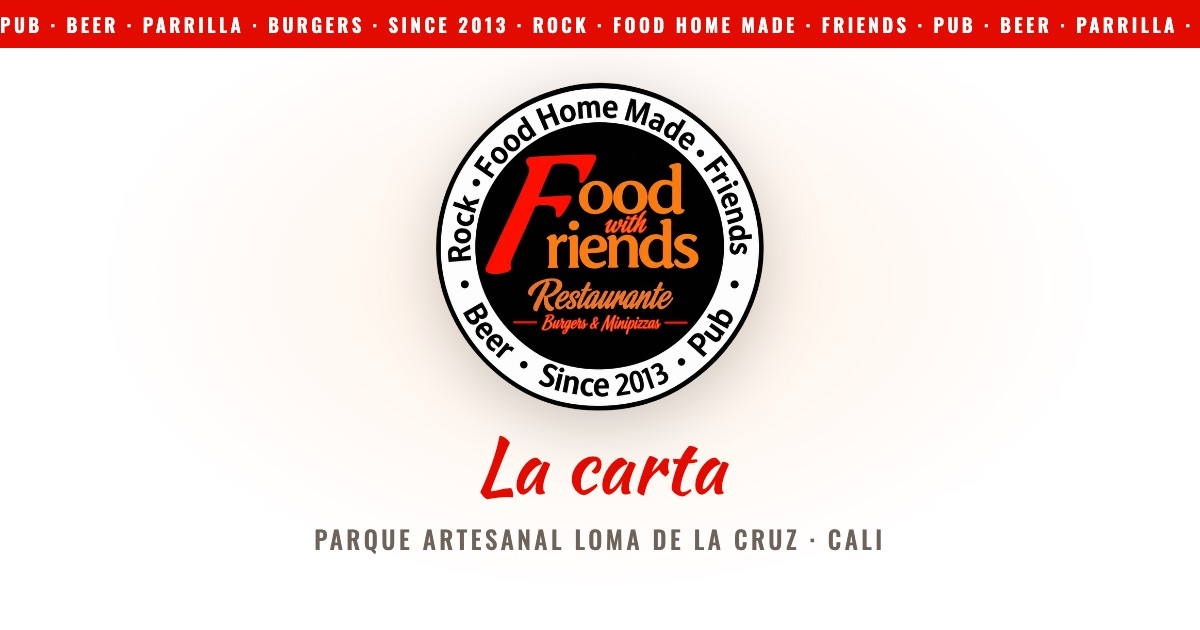
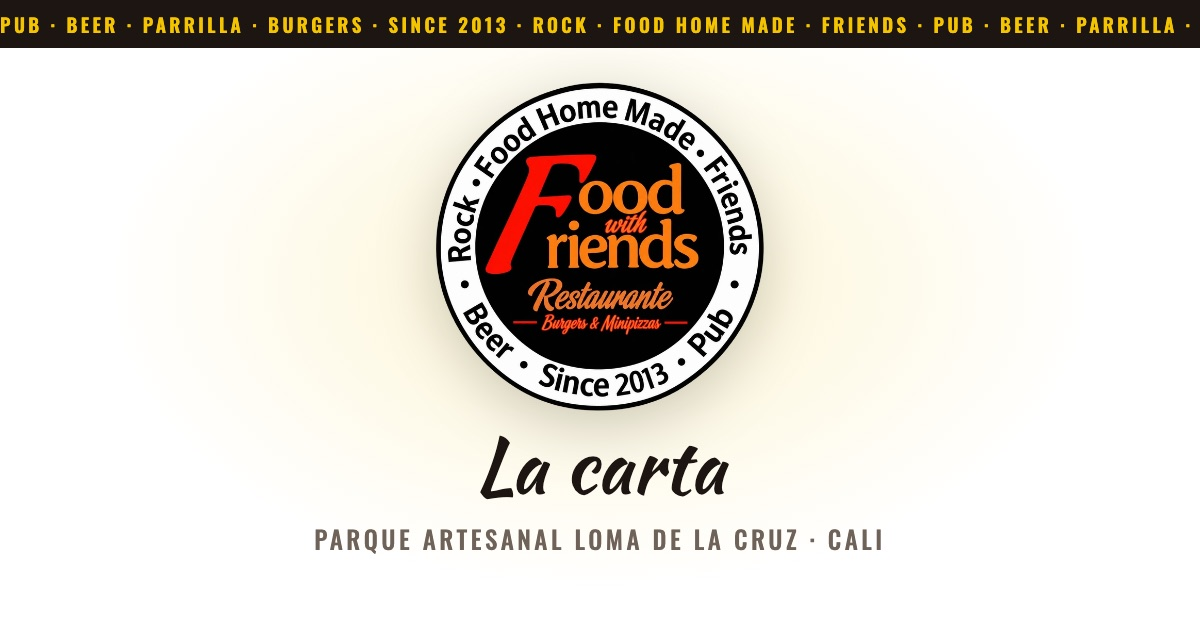
Carta en amarillo y negro, sin rojo (opción A que escogió Willy)
Cinta negra con letra amarilla, títulos negros con raya amarilla gruesa debajo, precios en
negro y la sección activa en amarillo. La imagen para compartir y la página de error, igual.

Changed region(s): [[0.0, 0.0, 1.0, 0.0905], [0.4008, 0.6937, 0.6167, 0.8143]]

diff --git a/index.html b/index.html
@@ -17,7 +17,7 @@
 <meta property="og:image:alt" content="Logo de Food and Friends y La carta">
 <meta property="og:locale" content="es_CO">
 <meta name="twitter:card" content="summary_large_image">
-<meta name="theme-color" content="#e30b00">
+<meta name="theme-color" content="#1c1512">
 <!-- La carta es blanca: así el modo oscuro del celular o del navegador no le cambia los colores -->
 <meta name="color-scheme" content="only light">
 <link rel="icon" href="logo.webp">
@@ -35,9 +35,8 @@
     --texto: #1c1512;
     --suave: #6f6259;
     --linea: #ece3db;
-    --rojo: #e30b00;
-    --precio: #b80900;
-    --naranja: #fa7a0b;
+    --amarillo: #f5c400; /* colores escogidos por Willy: amarillo y negro, sin rojo */
+    --precio: #1c1512;
     --nav: 66px;
     color-scheme: only light;
   }
@@ -53,11 +52,11 @@
   .portada.lista { opacity: 0; visibility: hidden; }
   @keyframes aparecer { from { opacity: 0; transform: scale(.94); } }
   a { color: inherit; }
-  :focus-visible { outline: 3px solid var(--rojo); outline-offset: 3px; border-radius: 8px; }
+  :focus-visible { outline: 3px solid var(--texto); outline-offset: 3px; border-radius: 8px; }
   .col { max-width: 600px; margin: 0 auto; padding: 0 20px; }
 
   /* Cinta con las palabras del anillo del logo */
-  .cinta { overflow: hidden; padding-top: env(safe-area-inset-top); background: var(--rojo); color: #fff; }
+  .cinta { overflow: hidden; padding-top: env(safe-area-inset-top); background: var(--texto); color: var(--amarillo); }
   .cinta div {
     display: flex; width: max-content; padding: 7px 0; white-space: nowrap;
     font-size: .78rem; font-weight: 600; letter-spacing: .18em; text-transform: uppercase;
@@ -68,22 +67,22 @@
      aunque la pantalla sea muy ancha, y al volver a empezar no se nota el salto */
   @keyframes correr { to { transform: translateX(-12.5%); } }
 
-  .hero { padding: 32px 0 30px; text-align: center; background: radial-gradient(70% 60% at 50% 30%, rgba(250, 122, 11, .10), transparent 70%); }
+  .hero { padding: 32px 0 30px; text-align: center; background: radial-gradient(70% 60% at 50% 30%, rgba(245, 196, 0, .16), transparent 70%); }
   h1 { margin: 0; line-height: 0; }
   .logo { width: 180px; height: 180px; filter: drop-shadow(0 10px 24px rgba(0, 0, 0, .18)); }
   .lugar { order: 2; margin: 16px 0 0; color: var(--suave); font-size: .85rem; font-weight: 500; letter-spacing: .14em; text-transform: uppercase; }
   #cabecera { display: flex; flex-direction: column; align-items: center; }
   #cabecera h1 { order: 1; }
-  .subtitulo { order: 3; margin: 2px 0 0; font-family: "Kaushan Script", cursive; font-size: 2.1rem; line-height: 1.2; color: var(--rojo); }
+  .subtitulo { order: 3; margin: 2px 0 0; font-family: "Kaushan Script", cursive; font-size: 2.1rem; line-height: 1.2; color: var(--texto); }
   /* La historia del restaurante (la "nota" del panel), justo debajo de "La carta" */
-  .historia { order: 4; max-width: 30em; margin: 16px auto 0; padding-top: 16px; border-top: 2px solid var(--naranja);
+  .historia { order: 4; max-width: 30em; margin: 16px auto 0; padding-top: 16px; border-top: 2px solid var(--amarillo);
     font-family: "Kaushan Script", cursive; font-size: 1.22rem; line-height: 1.55; }
   .acciones { order: 5; display: flex; justify-content: center; flex-wrap: wrap; gap: 10px; margin-top: 20px; }
   .btn {
     display: inline-flex; align-items: center; gap: 8px; min-height: 48px; padding: 0 20px; border-radius: 999px;
     border: 1.5px solid var(--linea); background: var(--fondo); color: inherit; font: inherit; font-weight: 600; text-decoration: none; cursor: pointer;
   }
-  .btn.principal { background: var(--naranja); border-color: var(--naranja); color: #1a0d03; }
+  .btn.principal { background: var(--amarillo); border-color: var(--amarillo); color: var(--texto); }
   .btn svg { width: 20px; height: 20px; fill: none; stroke: currentColor; stroke-width: 2; stroke-linecap: round; stroke-linejoin: round; }
 
   .cats { position: sticky; top: 0; z-index: 10; background: rgba(255, 255, 255, .95); -webkit-backdrop-filter: blur(12px); backdrop-filter: blur(12px); border-bottom: 1px solid var(--linea); }
@@ -95,14 +94,14 @@
     background: var(--fondo-2); border: 1px solid var(--linea); white-space: nowrap; text-decoration: none;
     font-weight: 500; font-size: .98rem; letter-spacing: .04em; text-transform: uppercase;
   }
-  .cats a[aria-current="true"] { background: var(--naranja); border-color: var(--naranja); color: #1a0d03; }
+  .cats a[aria-current="true"] { background: var(--amarillo); border-color: var(--amarillo); color: var(--texto); }
 
   .cargando { margin: 48px 0; color: var(--suave); text-align: center; }
 
   .cat { scroll-margin-top: calc(var(--nav) + 4px); padding-top: 36px; }
-  /* Títulos como los del menú impreso: gruesos, inclinados y en mayúsculas */
-  h2 { margin: 0; font-weight: 700; font-style: italic; font-size: clamp(1.9rem, 10vw, 2.5rem); line-height: 1.05; text-transform: uppercase; color: var(--rojo); letter-spacing: .01em; overflow-wrap: anywhere; }
-  h2::after { content: ""; display: block; width: 56px; height: 4px; margin-top: 8px; border-radius: 2px; background: var(--naranja); }
+  /* Títulos como los del menú impreso: gruesos, inclinados y en mayúsculas, con una raya amarilla debajo */
+  h2 { margin: 0; font-weight: 700; font-style: italic; font-size: clamp(1.9rem, 10vw, 2.5rem); line-height: 1.05; text-transform: uppercase; color: var(--texto); letter-spacing: .01em; overflow-wrap: anywhere; }
+  h2::after { content: ""; display: block; width: 70px; height: 6px; margin-top: 8px; border-radius: 3px; background: var(--amarillo); }
   h2 .num { display: none; }
   .nota-cat { margin: 8px 0 0; color: var(--suave); font-size: .98rem; }
   .platos { display: grid; gap: 14px; margin: 18px 0 0; padding: 0; list-style: none; }
@@ -117,7 +116,7 @@
   .foto { grid-area: foto; width: 104px; height: 82px; border-radius: 10px; object-fit: cover; background: var(--fondo-2); }
   .marca {
     display: inline-block; margin-left: 4px; padding: 1px 8px; vertical-align: 2px; border-radius: 999px;
-    background: var(--rojo); color: #fff; font-size: .7rem; font-weight: 600; letter-spacing: .06em; text-transform: uppercase;
+    background: var(--texto); color: var(--amarillo); font-size: .7rem; font-weight: 600; letter-spacing: .06em; text-transform: uppercase;
   }
   .plato.agotado > * { opacity: .45; }
   .plato.agotado .precio { text-decoration: line-through; }
@@ -125,7 +124,7 @@
 
   footer { margin-top: 48px; background: var(--fondo-2); border-top: 1px solid var(--linea); }
   footer .col { padding-top: 32px; padding-bottom: calc(44px + env(safe-area-inset-bottom)); }
-  footer h3 { margin: 0 0 4px; font-weight: 700; font-style: italic; font-size: 1.15rem; letter-spacing: .04em; text-transform: uppercase; color: var(--rojo); }
+  footer h3 { margin: 0 0 4px; font-weight: 700; font-style: italic; font-size: 1.15rem; letter-spacing: .04em; text-transform: uppercase; color: var(--texto); }
   footer .bloque { margin-bottom: 22px; }
   footer p { margin: 0; }
   .horario { display: grid; grid-template-columns: 1fr auto; gap: 2px 16px; margin: 0; }

diff --git a/404.html b/404.html
@@ -13,7 +13,7 @@
   :root { color-scheme: only light; }
   body { margin: 0; min-height: 100vh; display: grid; place-items: center; background: #fff; color: #1c1512; font: 16px/1.45 "Arial Narrow", ui-sans-serif, system-ui, sans-serif; text-align: center; }
   img { width: 140px; height: 140px; }
-  a { display: inline-block; margin-top: 18px; padding: 12px 22px; border-radius: 999px; background: #fa7a0b; color: #1a0d03; font-weight: 700; text-decoration: none; }
+  a { display: inline-block; margin-top: 18px; padding: 12px 22px; border-radius: 999px; background: #f5c400; color: #1c1512; font-weight: 700; text-decoration: none; }
 </style>
 </head>
 <body>
